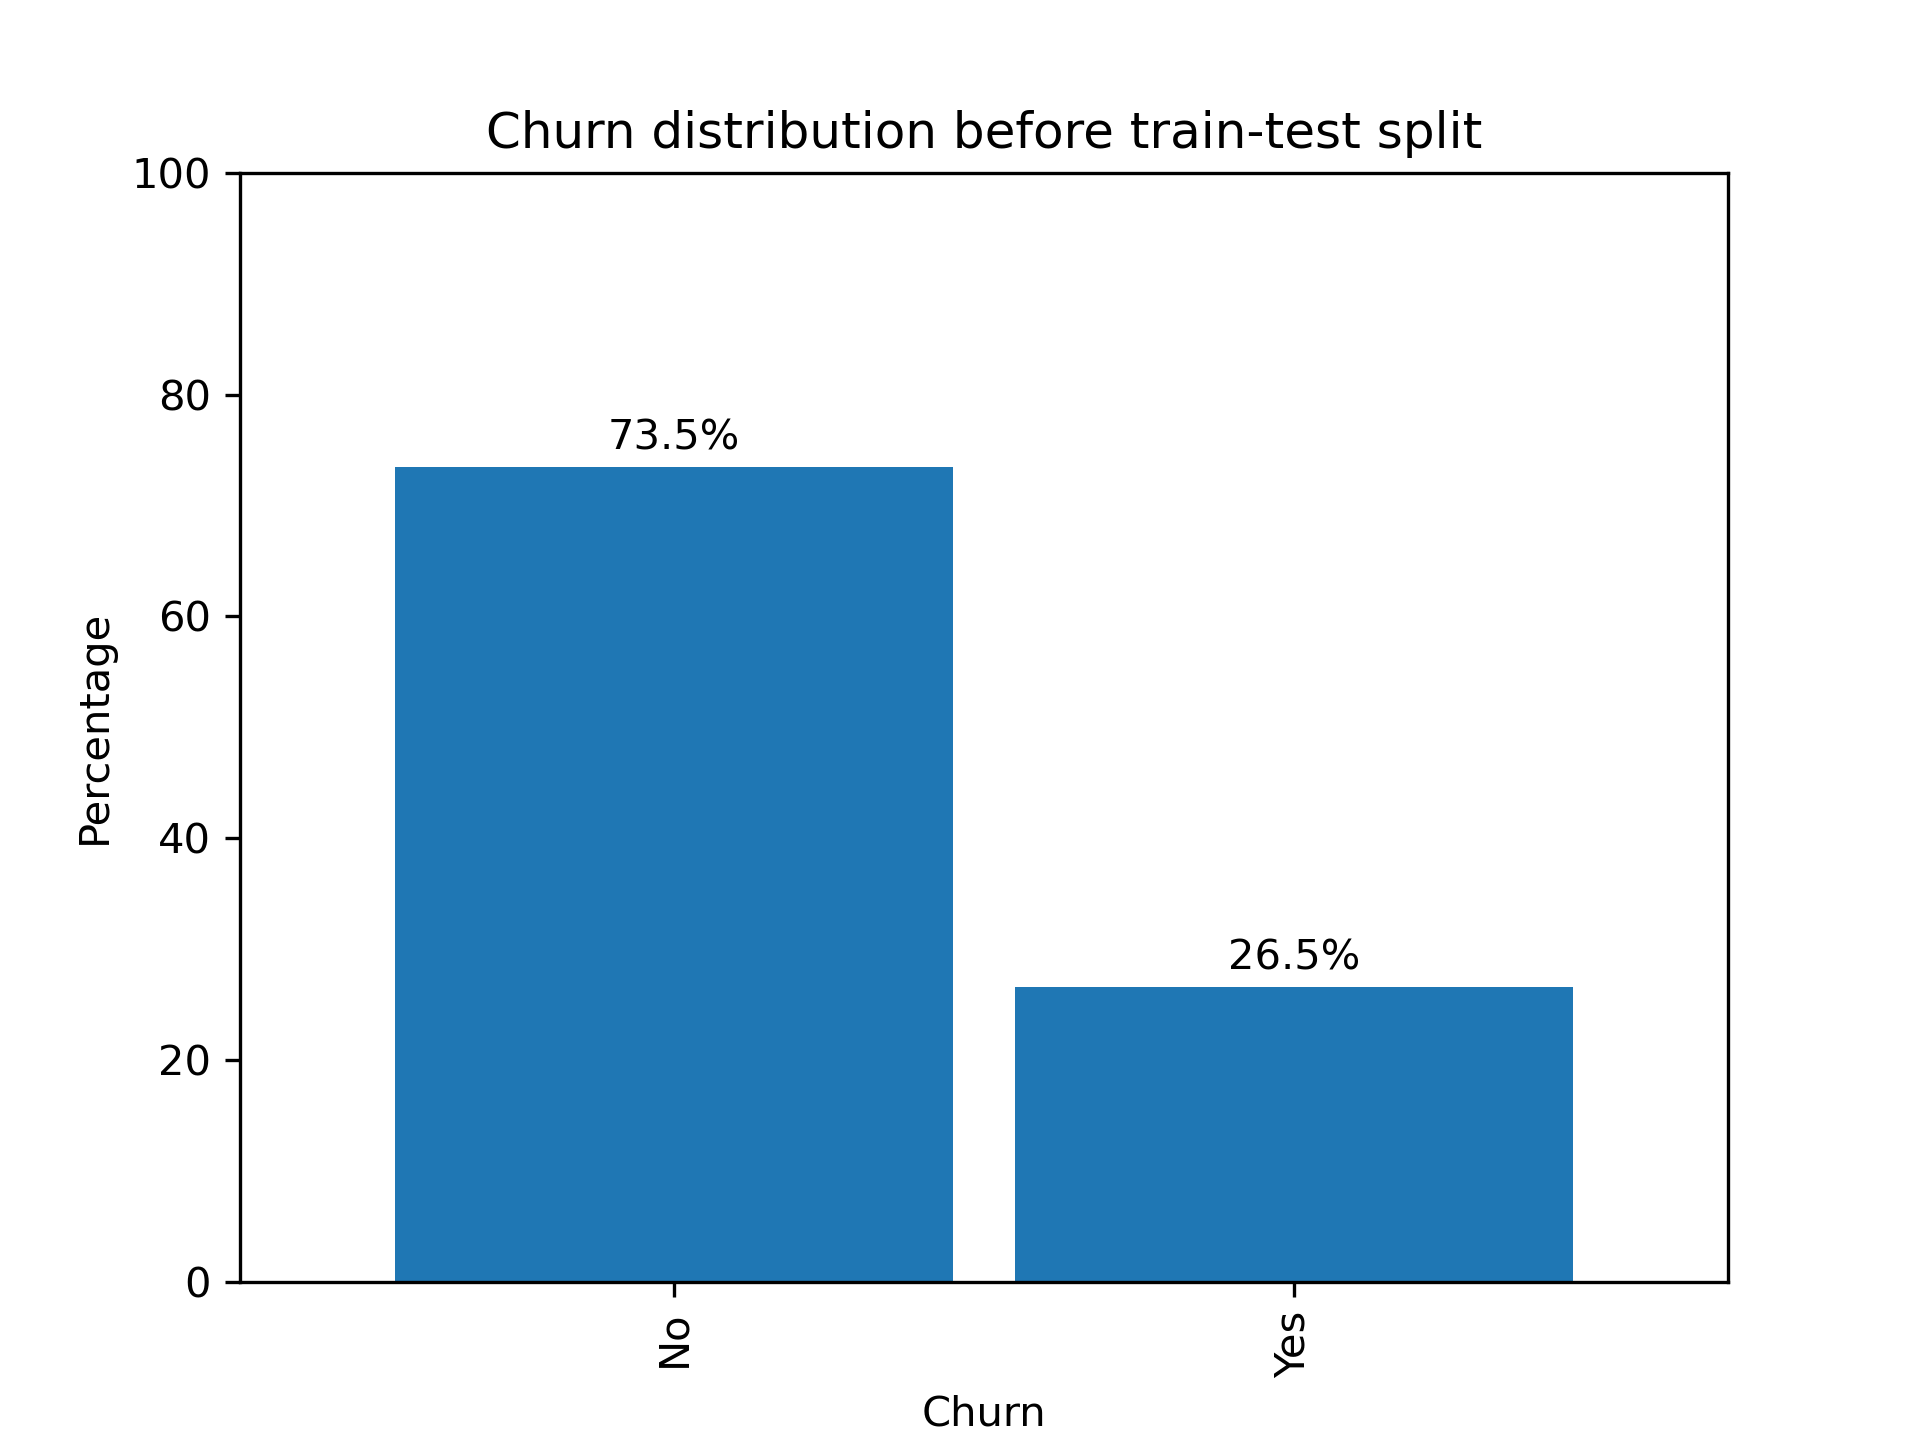
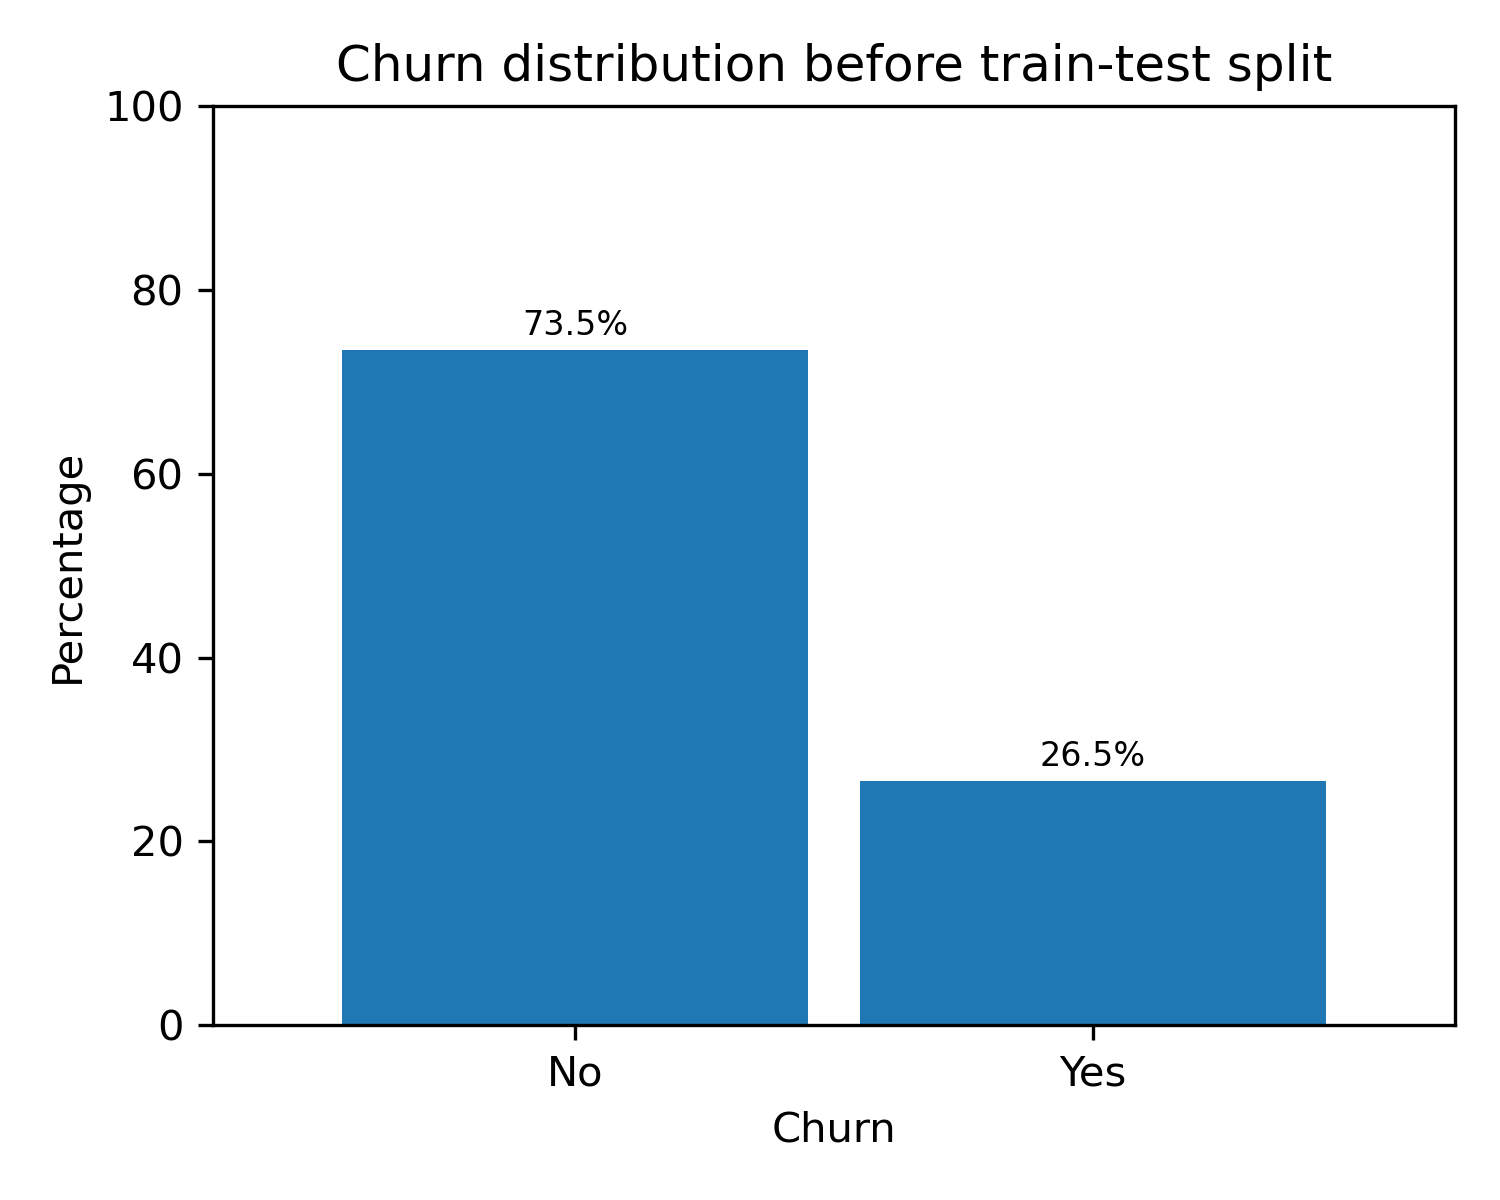
Add tested bar label helper and update EDA notebooks

diff --git a/src/telco_churn/plots.py b/src/telco_churn/plots.py
@@ -1,11 +1,12 @@
 from pathlib import Path
 
 import matplotlib.pyplot as plt
+from matplotlib.axes import Axes
 
 
 def save_plot(path, file_name, extension='png', dpi=300):
 
-    '''
+    """
     Function for saving plots.
 
     Args:
@@ -26,7 +27,7 @@ def save_plot(path, file_name, extension='png', dpi=300):
 
     Example:
         >>> save_plot(path='charts', file_name='total_charges_hist', extension='png', dpi=300)
-    '''
+    """
 
     if not isinstance(path, (str, Path)):
         raise TypeError('path must be a string or Path object.')
@@ -64,3 +65,22 @@ def save_plot(path, file_name, extension='png', dpi=300):
     plt.savefig(full_path, format=extension, dpi=dpi)
 
     return full_path
+
+
+def add_bar_labels(axes: Axes) -> None:
+    """
+    Add percentage labels to a single bar series.
+    Only the first bar container is labeled.
+    Padding is set to 2 and fontsize to 8.
+    Values are displayed in the following format: 25.0%.
+
+    Args:
+        axes (Axes): Matplotlib axes containing a bar plot.
+    """
+
+    axes.bar_label(
+        axes.containers[0],
+        fmt="%.1f%%",
+        padding=2,
+        fontsize=8,
+    )

diff --git a/tests/plots/test_add_bar_labels.py b/tests/plots/test_add_bar_labels.py
@@ -1,0 +1,20 @@
+import matplotlib.pyplot as plt
+import pandas as pd
+
+from telco_churn.plots import add_bar_labels
+
+
+def test_add_bar_labels_displays_expected_values():
+    expected_labels = ["10.0%", "20.0%", "30.0%"]
+    numbers = pd.Series([10, 20, 30])
+
+    series_ax = numbers.plot(
+        kind='bar'
+    )
+    add_bar_labels(axes=series_ax)
+
+    labels = [text.get_text() for text in series_ax.texts]
+
+    plt.close(series_ax.figure)
+
+    assert labels == expected_labels
